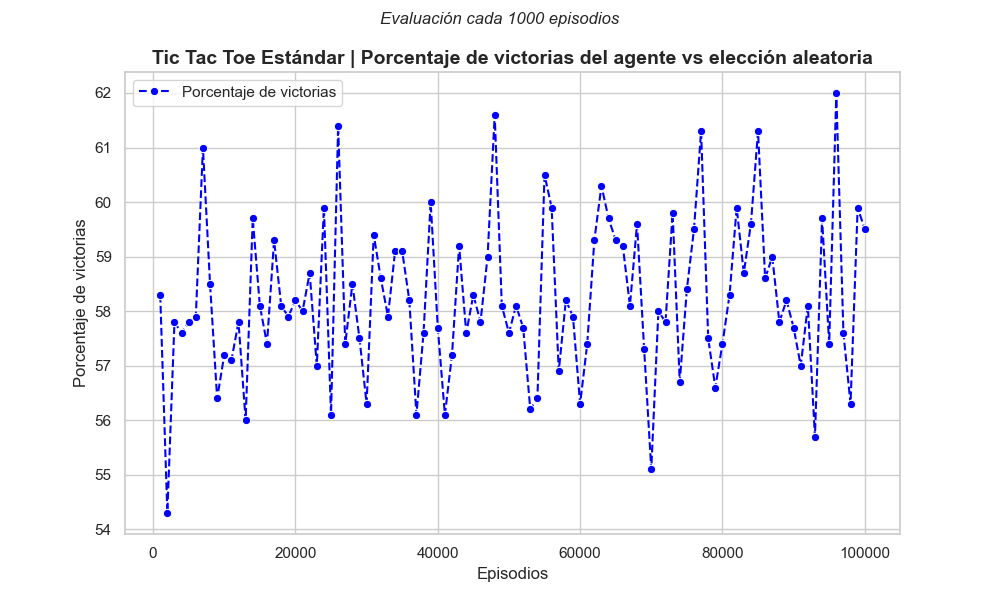
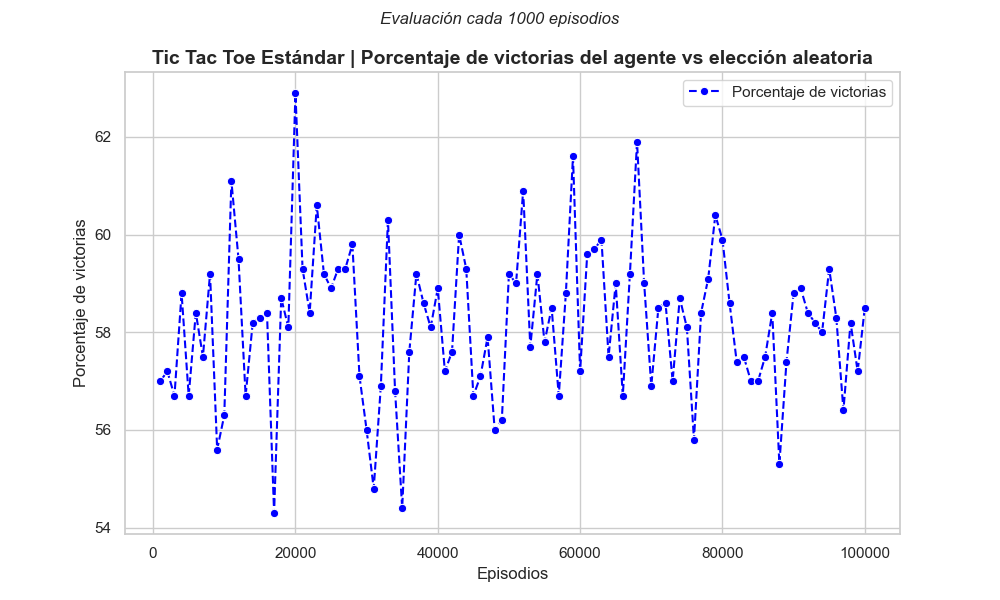
Changes to turns

diff --git a/codigo/juegos/tictactoe/tictactoe_std_randomtrain.py b/codigo/juegos/tictactoe/tictactoe_std_randomtrain.py
@@ -3,7 +3,7 @@
 # Hecho con ayuda de ChatGPT
 # Objetivo: entrenar un agente con Q-learning para que aprenda a jugar tic tac toe
 # Funcionamiento: El archivo entrena durante un número de episodios seleccionados jugando contra elección aleatoria,
-# y cada 1% del total de episodios evalúa contra un oponente aleatorio (100 juegos) y guarda el porcentaje de victorias.
+# y cada 1% del total de episodios evalúa contra un oponente aleatorio (100 juegos) y guarda el porcentaje de victorias y empates.
 
 # -----------------------  1. Librerías -----------------------------
 
@@ -86,6 +86,7 @@ def train_q_learning_agent_random_opponent(episodes=10000):
     agent = QLearningAgent(alpha=0.001, gamma=0.9, epsilon=0.5)
     rewards = []
     win_percentages = []
+    draw_percentages = []
     eval_interval = int(round(episodes * 0.01))  # Evaluación cada 1% de los episodios
     evaluation_episodes = eval_interval  # Usar el mismo valor para eval_interval y evaluation_episodes
 
@@ -94,25 +95,45 @@ def train_q_learning_agent_random_opponent(episodes=10000):
         done = False
         episode_reward = 0
 
+        # Alternar entre empezar primero y segundo
+        if episode % 2 == 0:
+            agent_letter, opponent_letter = 'X', 'O'
+        else:
+            agent_letter, opponent_letter = 'O', 'X'
+
         while not done:
-            # Agente como 'X'
-            action = agent.choose_action(state, env.available_moves())
-            env.make_move(action, 'X')
-            next_state = ''.join(env.board)
-            
-            if env.current_winner == 'X':
-                reward = 100
-                agent.update_q_value(state, action, reward, next_state, [])
-                done = True
-            elif env.is_draw():
-                reward = 50
-                agent.update_q_value(state, action, reward, next_state, [])
-                done = True
+            reward = 0  # Aseguramos que reward esté inicializado en 0 al inicio de cada turno
+            next_state = ''.join(env.board)  # Inicializamos next_state aquí para actualizar después de cada movimiento
+
+            if agent_letter == 'X':
+                action = agent.choose_action(state, env.available_moves())
+                env.make_move(action, 'X')
+                next_state = ''.join(env.board)  # Actualizar next_state después del movimiento del agente
+                if env.current_winner == 'X':
+                    reward = 100
+                    agent.update_q_value(state, action, reward, next_state, [])
+                    done = True
+                elif env.is_draw():
+                    reward = 50
+                    agent.update_q_value(state, action, reward, next_state, [])
+                    done = True
+                else:
+                    opponent_action = random.choice(env.available_moves())
+                    env.make_move(opponent_action, 'O')
+                    next_state = ''.join(env.board)  # Actualizar next_state después del movimiento del oponente
+                    if env.current_winner == 'O':
+                        reward = -100
+                        agent.update_q_value(state, action, reward, next_state, [])
+                        done = True
+                    elif env.is_draw():
+                        reward = 50
+                        agent.update_q_value(state, action, reward, next_state, [])
+                        done = True
             else:
-                # Oponente aleatorio como 'O'
                 opponent_action = random.choice(env.available_moves())
-                env.make_move(opponent_action, 'O')
-                if env.current_winner == 'O':
+                env.make_move(opponent_action, 'X')
+                next_state = ''.join(env.board)  # Actualizar next_state después del movimiento del oponente
+                if env.current_winner == 'X':
                     reward = -100
                     agent.update_q_value(state, action, reward, next_state, [])
                     done = True
@@ -121,10 +142,20 @@ def train_q_learning_agent_random_opponent(episodes=10000):
                     agent.update_q_value(state, action, reward, next_state, [])
                     done = True
                 else:
-                    state = next_state
-                    continue
+                    action = agent.choose_action(state, env.available_moves())
+                    env.make_move(action, 'O')
+                    next_state = ''.join(env.board)  # Actualizar next_state después del movimiento del agente
+                    if env.current_winner == 'O':
+                        reward = 100
+                        agent.update_q_value(state, action, reward, next_state, [])
+                        done = True
+                    elif env.is_draw():
+                        reward = 50
+                        agent.update_q_value(state, action, reward, next_state, [])
+                        done = True
 
             episode_reward += reward
+            state = next_state  # Actualizamos el estado actual para el próximo ciclo
 
         rewards.append(episode_reward)
 
@@ -132,9 +163,12 @@ def train_q_learning_agent_random_opponent(episodes=10000):
         if (episode + 1) % eval_interval == 0:
             wins, draws, losses = evaluate_agent(agent, games=evaluation_episodes)  # Evaluación del agente
             win_percentage = (wins / evaluation_episodes) * 100
+            draw_percentage = (draws / evaluation_episodes) * 100
             win_percentages.append(win_percentage)
+            draw_percentages.append(draw_percentage)
 
-    return win_percentages, eval_interval
+    return win_percentages, draw_percentages, eval_interval
+
 
 # ---------------  5. Evaluación del rendimiento ---------------------
 
@@ -146,26 +180,49 @@ def evaluate_agent(agent, games=100):
         state = ''.join(env.reset())
         done = False
 
+        # Alternar quién empieza (agente o oponente aleatorio)
+        if _ % 2 == 0:
+            agent_letter, opponent_letter = 'X', 'O'
+        else:
+            agent_letter, opponent_letter = 'O', 'X'
+
         while not done:
-            # Agente juega como 'X'
-            action = agent.choose_action(state, env.available_moves())
-            env.make_move(action, 'X')
-            if env.current_winner == 'X':
-                wins += 1
-                done = True
-            elif env.is_draw():
-                draws += 1
-                done = True
+            if agent_letter == 'X':
+                action = agent.choose_action(state, env.available_moves())
+                env.make_move(action, 'X')
+                if env.current_winner == 'X':
+                    wins += 1
+                    done = True
+                elif env.is_draw():
+                    draws += 1
+                    done = True
+                else:
+                    opponent_action = random.choice(env.available_moves())
+                    env.make_move(opponent_action, 'O')
+                    if env.current_winner == 'O':
+                        losses += 1
+                        done = True
+                    elif env.is_draw():
+                        draws += 1
+                        done = True
             else:
-                # Oponente aleatorio juega como 'O'
                 opponent_action = random.choice(env.available_moves())
-                env.make_move(opponent_action, 'O')
-                if env.current_winner == 'O':
+                env.make_move(opponent_action, 'X')
+                if env.current_winner == 'X':
                     losses += 1
                     done = True
                 elif env.is_draw():
                     draws += 1
                     done = True
+                else:
+                    action = agent.choose_action(state, env.available_moves())
+                    env.make_move(action, 'O')
+                    if env.current_winner == 'O':
+                        wins += 1
+                        done = True
+                    elif env.is_draw():
+                        draws += 1
+                        done = True
 
             state = ''.join(env.board)
     
@@ -175,19 +232,23 @@ def evaluate_agent(agent, games=100):
 
 if __name__ == "__main__":
     episodes = 100000  # Cambia el número según sea necesario
-    win_percentages, eval_interval = train_q_learning_agent_random_opponent(episodes)
+    win_percentages, draw_percentages, eval_interval = train_q_learning_agent_random_opponent(episodes)
 
-    # Gráfico del porcentaje de victorias en cada intervalo de evaluación
+    # Gráfico del porcentaje de victorias y empates en cada intervalo de evaluación
     sns.set(style="whitegrid")
     plt.figure(figsize=(10, 6))
 
     # Gráfico del porcentaje de victorias
     ax = sns.lineplot(x=range(eval_interval, episodes + 1, eval_interval), y=win_percentages, color="blue", marker="o", linestyle="--", label="Porcentaje de victorias")
+    
+    # Gráfico del porcentaje de empates
+    ax = sns.lineplot(x=range(eval_interval, episodes + 1, eval_interval), y=draw_percentages, color="green", marker="o", linestyle="--", label="Porcentaje de empates")
+    
     ax.set_xlabel("Episodios", fontsize=12)
-    ax.set_ylabel("Porcentaje de victorias", fontsize=12)
+    ax.set_ylabel("Porcentaje", fontsize=12)
 
     # Añadir título y subtítulo
-    plt.title(f"Tic Tac Toe Estándar | Porcentaje de victorias del agente vs elección aleatoria", fontsize=14, fontweight='bold')
+    plt.title(f"Tic Tac Toe Estándar | Porcentaje de victorias y empates del agente vs elección aleatoria", fontsize=14, fontweight='bold')
     plt.suptitle(f"Evaluación cada {eval_interval} episodios", fontsize=12, style='italic')
 
     # Guardar la gráfica en lugar de mostrarla
@@ -196,26 +257,8 @@ if __name__ == "__main__":
     if not os.path.exists(resultados_dir):
         os.makedirs(resultados_dir)
 
-    image_path = os.path.join(resultados_dir, f"tictactoe_winpct_random_{episodes}_episodes.png")
+    image_path = os.path.join(resultados_dir, f"tictactoe_winpct_drawpct_random_{episodes}_episodes.png")
     plt.savefig(image_path)
     plt.close()
 
     print(f"Gráfica guardada como {image_path}")
-
-
-
-
-
-
-
-
-
-
-
-
-
-
-
-
-
-

diff --git a/codigo/juegos/tictactoe/tictactoe_std_selftrain.py b/codigo/juegos/tictactoe/tictactoe_std_selftrain.py
@@ -3,7 +3,7 @@
 # Hecho con ayuda de ChatGPT
 # Objetivo: entrenar un agente con Q-learning para que aprenda a jugar tic tac toe
 # Funcionamiento: El archivo entrena durante un número de episodios seleccionados jugando contra otro agente,
-# y cada 1% del total de episodios evalúa contra un oponente aleatorio (100 juegos) y guarda el porcentaje de victorias.
+# y cada 1% del total de episodios evalúa contra un oponente aleatorio (100 juegos) y guarda el porcentaje de victorias y empates.
 
 # -----------------------  1. Librerías -----------------------------
 
@@ -89,14 +89,19 @@ def train_and_evaluate_agent(episodes=10000):
     eval_interval = int(round(episodes * 0.01))  # Evaluación cada 1% de los episodios
     evaluation_episodes = eval_interval  # Usar el mismo valor para eval_interval y evaluation_episodes
     win_percentages = []
+    draw_percentages = []
 
     for episode in range(episodes):
         state = ''.join(env.reset())
         done = False
 
-        # Alternate between agents for each game
-        current_agent, other_agent = agent_X, agent_O
-        current_letter, other_letter = 'X', 'O'
+        # Alternar quién empieza (agente X o agente O)
+        if episode % 2 == 0:
+            current_agent, other_agent = agent_X, agent_O
+            current_letter, other_letter = 'X', 'O'
+        else:
+            current_agent, other_agent = agent_O, agent_X
+            current_letter, other_letter = 'O', 'X'
 
         while not done:
             action = current_agent.choose_action(state, env.available_moves())
@@ -124,9 +129,11 @@ def train_and_evaluate_agent(episodes=10000):
         if (episode + 1) % eval_interval == 0:
             wins, draws, losses = evaluate_agent(agent_X, games=evaluation_episodes)  # Evaluación del agente X
             win_percentage = (wins / evaluation_episodes) * 100
+            draw_percentage = (draws / evaluation_episodes) * 100
             win_percentages.append(win_percentage)
+            draw_percentages.append(draw_percentage)
 
-    return win_percentages, eval_interval
+    return win_percentages, draw_percentages, eval_interval
 
 # ---------------  5. Evaluación del rendimiento ---------------------
 
@@ -138,26 +145,49 @@ def evaluate_agent(agent, games=100):
         state = ''.join(env.reset())
         done = False
 
+        # Alternar quién empieza (agente o oponente aleatorio)
+        if _ % 2 == 0:
+            agent_letter, opponent_letter = 'X', 'O'
+        else:
+            agent_letter, opponent_letter = 'O', 'X'
+
         while not done:
-            # Agente juega como 'X'
-            action = agent.choose_action(state, env.available_moves())
-            env.make_move(action, 'X')
-            if env.current_winner == 'X':
-                wins += 1
-                done = True
-            elif env.is_draw():
-                draws += 1
-                done = True
+            if agent_letter == 'X':
+                action = agent.choose_action(state, env.available_moves())
+                env.make_move(action, 'X')
+                if env.current_winner == 'X':
+                    wins += 1
+                    done = True
+                elif env.is_draw():
+                    draws += 1
+                    done = True
+                else:
+                    opponent_action = random.choice(env.available_moves())
+                    env.make_move(opponent_action, 'O')
+                    if env.current_winner == 'O':
+                        losses += 1
+                        done = True
+                    elif env.is_draw():
+                        draws += 1
+                        done = True
             else:
-                # Oponente aleatorio juega como 'O'
                 opponent_action = random.choice(env.available_moves())
-                env.make_move(opponent_action, 'O')
-                if env.current_winner == 'O':
+                env.make_move(opponent_action, 'X')
+                if env.current_winner == 'X':
                     losses += 1
                     done = True
                 elif env.is_draw():
                     draws += 1
                     done = True
+                else:
+                    action = agent.choose_action(state, env.available_moves())
+                    env.make_move(action, 'O')
+                    if env.current_winner == 'O':
+                        wins += 1
+                        done = True
+                    elif env.is_draw():
+                        draws += 1
+                        done = True
 
             state = ''.join(env.board)
     
@@ -167,19 +197,23 @@ def evaluate_agent(agent, games=100):
 
 if __name__ == "__main__":
     episodes = 100000  # Cambia el número según sea necesario
-    win_percentages, eval_interval = train_and_evaluate_agent(episodes)
+    win_percentages, draw_percentages, eval_interval = train_and_evaluate_agent(episodes)
 
-    # Gráfico del porcentaje de victorias en cada intervalo de evaluación
+    # Gráfico del porcentaje de victorias y empates en cada intervalo de evaluación
     sns.set(style="whitegrid")
     plt.figure(figsize=(10, 6))
 
     # Gráfico del porcentaje de victorias
     ax = sns.lineplot(x=range(eval_interval, episodes + 1, eval_interval), y=win_percentages, color="blue", marker="o", linestyle="--", label="Porcentaje de victorias")
+    
+    # Gráfico del porcentaje de empates
+    ax = sns.lineplot(x=range(eval_interval, episodes + 1, eval_interval), y=draw_percentages, color="green", marker="o", linestyle="--", label="Porcentaje de empates")
+    
     ax.set_xlabel("Episodios", fontsize=12)
-    ax.set_ylabel("Porcentaje de victorias", fontsize=12)
+    ax.set_ylabel("Porcentaje", fontsize=12)
 
     # Añadir título y subtítulo
-    plt.title(f"Tic Tac Toe Estándar | Porcentaje de victorias del agente vs otro agente en mismo entrenamiento", fontsize=14, fontweight='bold')
+    plt.title(f"Tic Tac Toe Estándar | Porcentaje de victorias y empates del agente", fontsize=14, fontweight='bold')
     plt.suptitle(f"Evaluación cada {eval_interval} episodios", fontsize=12, style='italic')
 
     # Guardar la gráfica en lugar de mostrarla
@@ -188,7 +222,7 @@ if __name__ == "__main__":
     if not os.path.exists(resultados_dir):
         os.makedirs(resultados_dir)
 
-    image_path = os.path.join(resultados_dir, f"tictactoe_winpct_selftrain_{episodes}_episodes.png")
+    image_path = os.path.join(resultados_dir, f"tictactoe_winpct_drawpct_selftrain_{episodes}_episodes.png")
     plt.savefig(image_path)
     plt.close()
 
